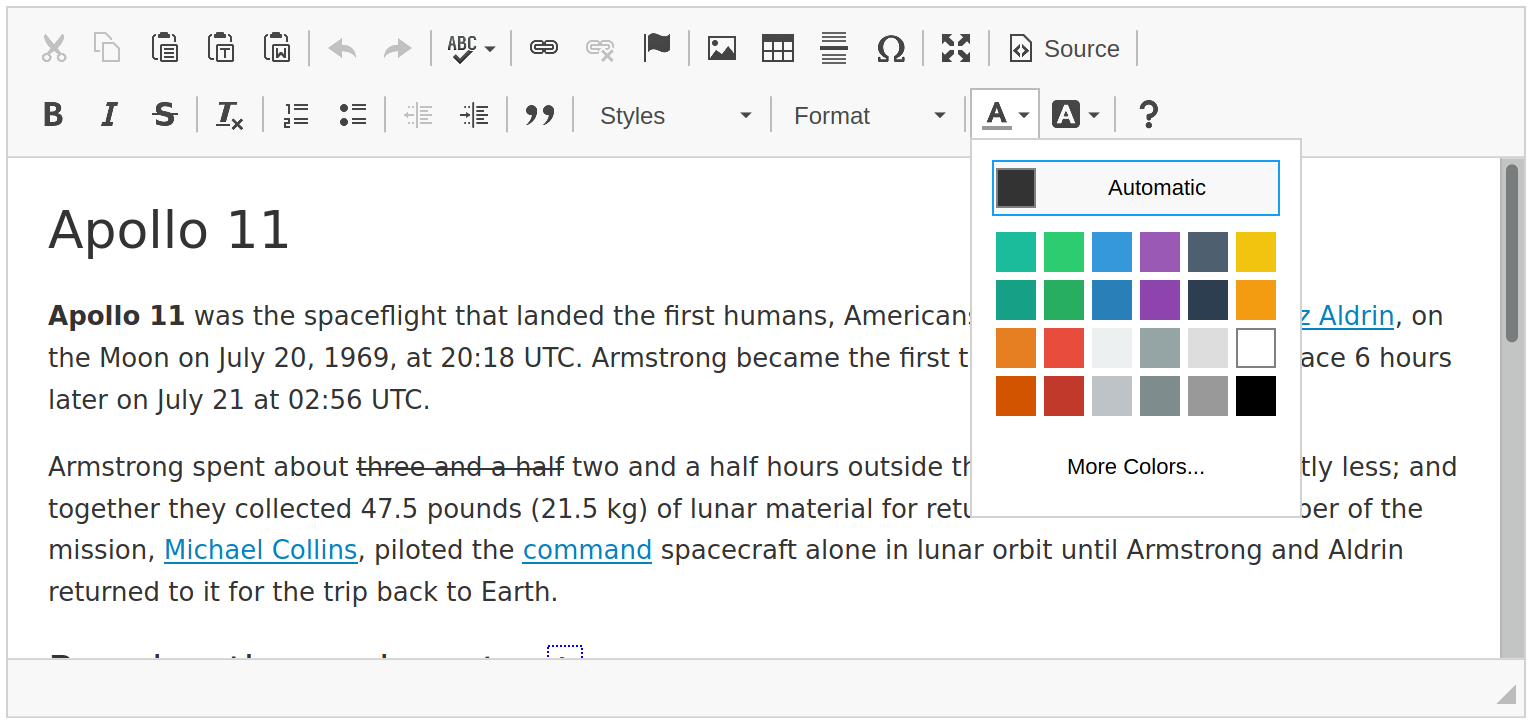
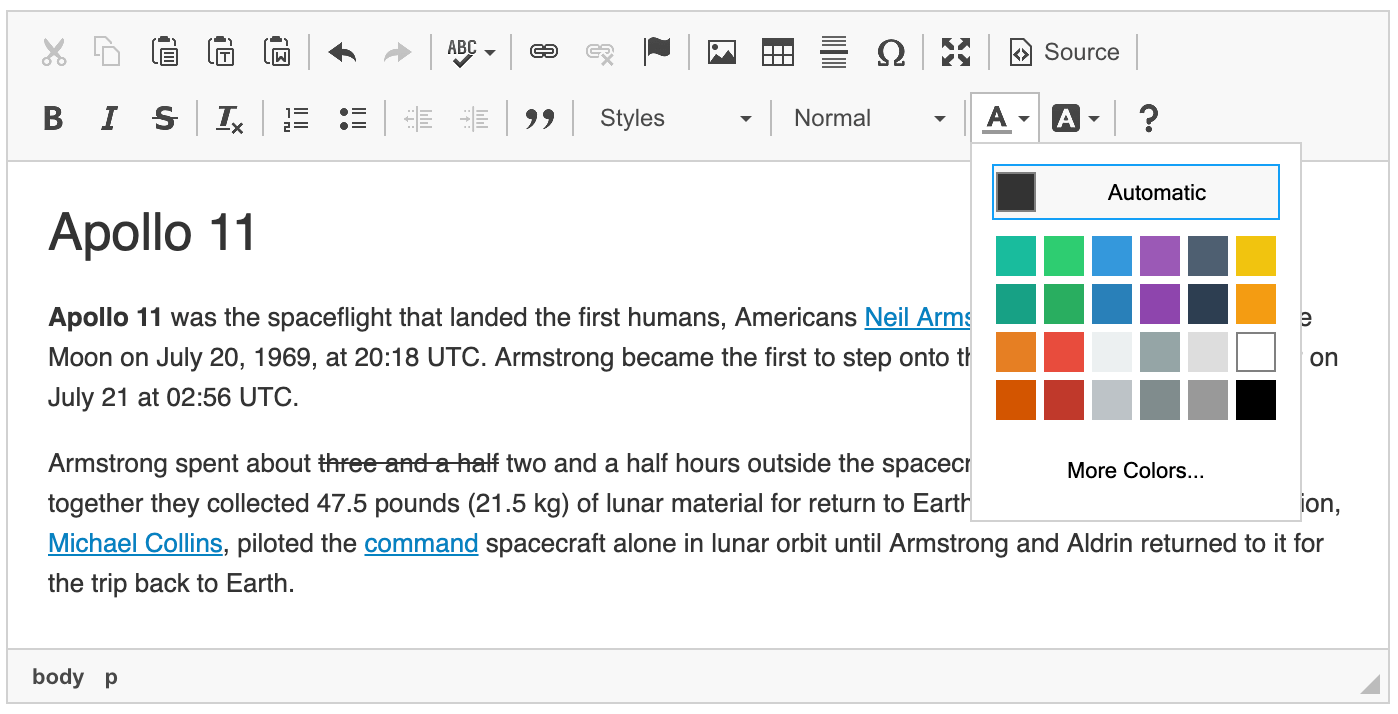
Color Button guide, sample and screenshots updated.

diff --git a/docs/sdk/examples/colorbutton.html b/docs/sdk/examples/colorbutton.html
@@ -167,7 +167,7 @@ For licensing, see LICENSE.md or http://ckeditor.com/license.
 				CKEDITOR.replace( 'editor3', {
 					height: 250,
 					extraPlugins: 'colorbutton',
-					colorButton_colors: 'CF5D4E,454545,FFF,CCC,DDD,CCEAEE,66AB16',
+					colorButton_colors: 'CF5D4E,454545,FFF,DDD,CCEAEE,66AB16',
 					colorButton_enableAutomatic: false
 				} );
 			</script>

diff --git a/docs/features/colorbutton/README.md b/docs/features/colorbutton/README.md
@@ -13,36 +13,38 @@ For licensing, see LICENSE.md.
 # Setting Text and Background Color
 
 <info-box info="">
- This feature is provided through optional plugins that are only included in the Full preset available from the official CKEditor 4 <a href="https://ckeditor.com/ckeditor-4/download/">Download</a> site. You can also {@link guide/dev/plugins/README add them to your custom build} with <a href="https://ckeditor.com/cke4/builder">online builder</a>.
+	This feature is provided through optional plugins that are only included in the Full preset available from the official CKEditor 4 <a href="https://ckeditor.com/ckeditor-4/download/">Download</a> site. You can also {@link guide/dev/plugins/README add them to your custom build} with the <a href="https://ckeditor.com/cke4/builder">online builder</a>.
 </info-box>
 
 The optional [Color Button](https://ckeditor.com/cke4/addon/colorbutton) plugin provides the ability to define font and background color for text created in CKEditor 4. When enabled, it adds the **Text Color** and **Background Color** toolbar buttons that open a color selection drop-down list. If you want to quickly {@link features/removeformat/README remove colors} from your document, use the **Remove Format** button provided by the [Remove Format](https://ckeditor.com/cke4/addon/removeformat) plugin.
 
-{@img assets/img/colorbutton_05.png The Text Color and Background Color features}
+{@img assets/img/colorbutton_05.png 700 The Text Color and Background Color features}
 
 ## More Colors Option and Color Dialog
 
 You can also add the optional [Color Dialog](https://ckeditor.com/cke4/addon/colordialog) plugin which extends the color selector with the **More Colors** option and a user-friendly way to select the desired color through a dedicated **Select Color** dialog window. When this plugin is enabled, the **More Colors** option appears automatically for the text and background color.
 
-{@img assets/img/colordialog_03.png The Select Color dialog window}
+{@img assets/img/colordialog_03.png 390 The Select Color dialog window}
 
-You can hide the **More Colors** feature by setting the {@linkapi CKEDITOR.config.colorButton_enableMore CKEDITOR.config.colorButton_enableMore} configuration option to `false`.
+You can hide the **More Colors** feature by setting the {@linkapi CKEDITOR.config.colorButton_enableMore `config.colorButton_enableMore`} configuration option to `false`.
 
 ## Custom Color List
 
 The list of colors available in the color selectors can be customized, for example to include the colors that are used in your website. You may also want to limit user's choice of colors to just selected few in order to avoid the overuse of colors.
 
-Use the {@linkapi CKEDITOR.config.colorButton_colors CKEDITOR.config.colorButton_colors} configuration option to define a custom list available in the **Text Color** and **Background Color** features. For example:
+Use the {@linkapi CKEDITOR.config.colorButton_colors `config.colorButton_colors`} configuration option to define a custom list available in the **Text Color** and **Background Color** features. For example:
 
-	config.colorButton_colors = 'CF5D4E,454545,FFF,CCC,DDD,CCEAEE,66AB16';
+```javascript
+	config.colorButton_colors = 'CF5D4E,454545,FFF,DDD,CCEAEE,66AB16';
+```
 
-Additionally, since CKEditor 4.5.8 you can also disable the "Automatic" option by setting the {@linkapi CKEDITOR.config.colorButton_enableAutomatic CKEDITOR.config.colorButton_enableAutomatic} option to `false`.
+Additionally, since CKEditor 4.5.8 you can also disable the "Automatic" option by setting the {@linkapi CKEDITOR.config.colorButton_enableAutomatic `config.colorButton_enableAutomatic`} option to `false`.
 
 	config.colorButton_enableAutomatic = false;
 
-These settings will cause the color list to only contain the seven colors listed above, with no "Automatic" option available:
+These settings will cause the color list to only contain the six colors listed above, with no "Automatic" option available:
 
-{@img assets/img/colorbutton_04.png The customized color list}
+{@img assets/img/colorbutton_04.png 700 The customized color list}
 
 <info-box hint="">
  <p>
@@ -55,7 +57,7 @@ These settings will cause the color list to only contain the seven colors listed
 
 ## Custom Color Style Definition
 
-You can also decide how the color definition is stored by setting the {@linkapi CKEDITOR.config.colorButton_foreStyle CKEDITOR.config.colorButton_foreStyle} (for text color) and {@linkapi CKEDITOR.config.colorButton_backStyle CKEDITOR.config.colorButton_backStyle} (for background color) configuration options. By default, the color is added as a `<span>` element with the `style` attribute, but you could also e.g. use the legacy (and not recommended) HTML4 `<font>` element definition:
+You can also decide how the color definition is stored by setting the {@linkapi CKEDITOR.config.colorButton_foreStyle `config.colorButton_foreStyle`} (for text color) and {@linkapi CKEDITOR.config.colorButton_backStyle `config.colorButton_backStyle`} (for background color) configuration options. By default, the color is added as a `<span>` element with the `style` attribute, but you could also e.g. use the legacy (and not recommended) HTML4 `<font>` element definition:
 
 	config.colorButton_foreStyle = {
 		element: 'font',
@@ -67,14 +69,14 @@ You can also decide how the color definition is stored by setting the {@linkapi 
     	styles: { 'background-color': '#(color)' }
 	};
 
-CKEditor 4 will then output the color definition as `<font>` elements with `color` and `style="background-color"` attributes for text and background color, respectively:
+CKEditor 4 will then output the color definition as `<font>` elements with the `color` and `style="background-color"` attributes for text and background color, respectively:
 
 	<p><font color="#800080">This is my text color.</font><br/>
 	<font style="background-color:#FFFF00;">This is my background color</font></p>
 
-In CKEditor `4.15` the `colorName` property has been introduced that uses a color name instead of a color code, which allows creating descriptive class names.
+CKEditor 4.15 introduced the `colorName` property that uses a color name instead of a color code, which allows creating descriptive class names.
 
-You can use `colorName` with {@linkapi CKEDITOR.config.colorButton_foreStyle CKEDITOR.config.colorButton_foreStyle} or {@linkapi CKEDITOR.config.colorButton_backStyle CKEDITOR.config.colorButton_backStyle} configuration options:
+You can use `colorName` with the {@linkapi CKEDITOR.config.colorButton_foreStyle `config.colorButton_foreStyle`} or {@linkapi CKEDITOR.config.colorButton_backStyle `config.colorButton_backStyle`} configuration options:
 
 ```javascript
 config.colorButton_foreStyle = {
@@ -88,13 +90,13 @@ config.colorButton_backStyle = {
 };
 ```
 
-CKEditor 4 will then output the color definition as `span` with class:
+CKEditor 4 will then output the color definition as a `<span>` element with a class, for example:
 
 ```html
 <span class="text-skyblue">Text</span>
 ```
 
-You can customize color names to more friendly form by setting {@linkapi CKEDITOR.config.colorButton_colors custom color names}:
+You can customize color names to a more user-friendly form by setting {@linkapi CKEDITOR.config.colorButton_colors custom color names}:
 
 ```javascript
 config.colorButton_colors = 'skyblue/87CEEB,crimson/DC143C';
@@ -102,27 +104,27 @@ config.colorButton_colors = 'skyblue/87CEEB,crimson/DC143C';
 
 ## Color History
 
-In CKEditor `4.15` version a new feature was introduced - **Color History**. It is active in the editor by default if the [Color Button](https://ckeditor.com/cke4/addon/colorbutton) plugin is enabled. It adds additional color rows to the color panel, separated from the default palette with a horizontal line. Color History rows are only visible if there are any colors to show in the history:
+CKEditor 4.15 introduced a new feature: **Color History**. It is active in the editor by default if the [Color Button](https://ckeditor.com/cke4/addon/colorbutton) plugin is enabled. It adds additional color rows to the color panel, separated from the default palette with a horizontal line. Color history rows are visible only if there are some colors to show in the history:
 
-{@img assets/img/colorbutton_07.png Color History filled with a few colors.}
+{@img assets/img/colorbutton_07.png 700 Color history filled with a few colors.}
 
-The number of colors that appears can be controlled using {@linkapi CKEDITOR.config.colorButton_historyRowLimit colorButton_historyRowLimit configuration option} (setting this value to 0 allows to disable the feature entirely).
+The number of colors that appear in the panel can be controlled using the {@linkapi CKEDITOR.config.colorButton_historyRowLimit `config.colorButton_historyRowLimit`} configuration option. The feature itself can also be disabled entirely using the {@linkapi CKEDITOR.config.colorButton_renderContentColors `config.colorButton_renderContentColors`} option.
 
-The Color History feature, in fact, consists of two separate mechanisms to collect and display colors. The first one collects colors from the editor content at initialization time, while the second one adds them to the history dynamically whenever they are used. Let’s talk about each one a little.
+The color history feature, in fact, consists of two separate mechanisms to collect and display colors. The first one collects colors from the editor content at initialization time, while the second one adds them to the history dynamically whenever they are used.
 
 ### Color Suggestions
 
-During editor initialization, Color History scans editor content for all colors used as text and background styles and adds them to the color history rows in color panel. The order of colors is determined based on the number of their occurrences (the one that appears most often will be displayed as a first one) and later on the order of appearance. This whole procedure happens only once during editor initialization, so if the editor is loaded with colored content you can use all the colors right away! This part of the feature can also be disabled using {@linkapi CKEDITOR.config.colorButton_renderContentColors colorButton_renderContentColors option}.
+During the editor initialization, color history scans the editor content for all colors used as text and background styles and adds them to the color history rows in the color panel. The order of colors is determined based on the number of their occurrences (the one that appears most often will be displayed as the first one) and later on the order of appearance. This whole procedure happens only once during the editor initialization, so if the editor is loaded with colored content, you can use all the colors right away!
 
 ### Preserving Picked Colors
 
-Every time a color is used (either from the default color palette or from color dialog) it is added to the beginning of a color history row:
+Every time a color is used (either from the default color palette or from the color dialog), it is added to the beginning of the color history row:
 
-{@img assets/img/colorbutton_06.gif Picked colors are preserved in custom palette.}
+{@img assets/img/colorbutton_06.gif Picked colors are preserved in the custom palette.}
 
-The most recently used color is always added to the beginning - if a color was already present in the history, it is simply moved to the first position. Text and background colors are tracked separately, in their respective color panels.
+The most recently used color is always added to the beginning. If a color has already been present in the history, it is simply moved to the first position. Text and background colors are tracked separately, in respective color panels.
 
-As mentioned before, there already may be some colors in the history even if you haven't yet picked any, thanks to the {@link features/colorbutton/README#color-suggestions Color Suggestions feature}. The number of colors preserved in the history can be controlled using the {@linkapi CKEDITOR.config.colorButton_historyRowLimit colorButton_historyRowLimit configuration option}.
+As mentioned earlier, there already may be some colors in the history even if you have not picked any yet, thanks to the {@link features/colorbutton/README#color-suggestions Color Suggestions feature}. The number of colors preserved in the history can be controlled using the {@linkapi CKEDITOR.config.colorButton_historyRowLimit `config.colorButton_historyRowLimit`} configuration option.
 
 ## Text and Background Color Demo
 
